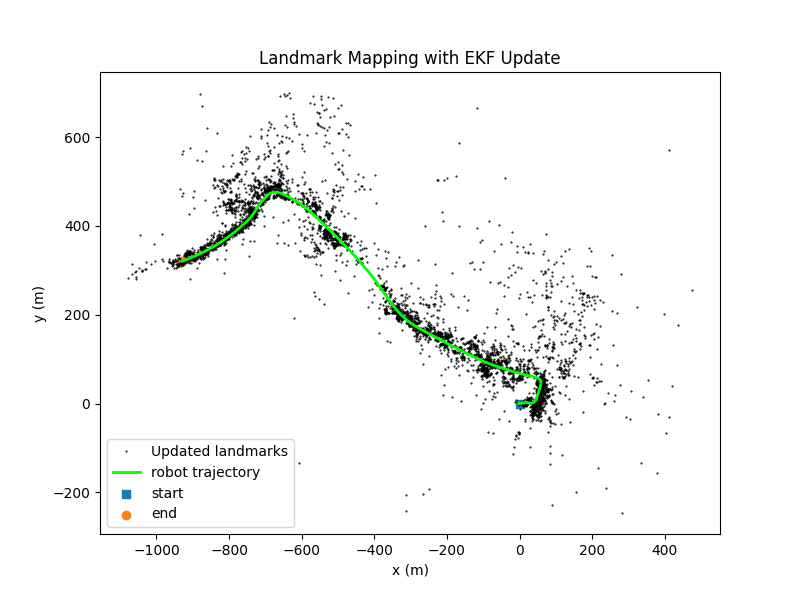
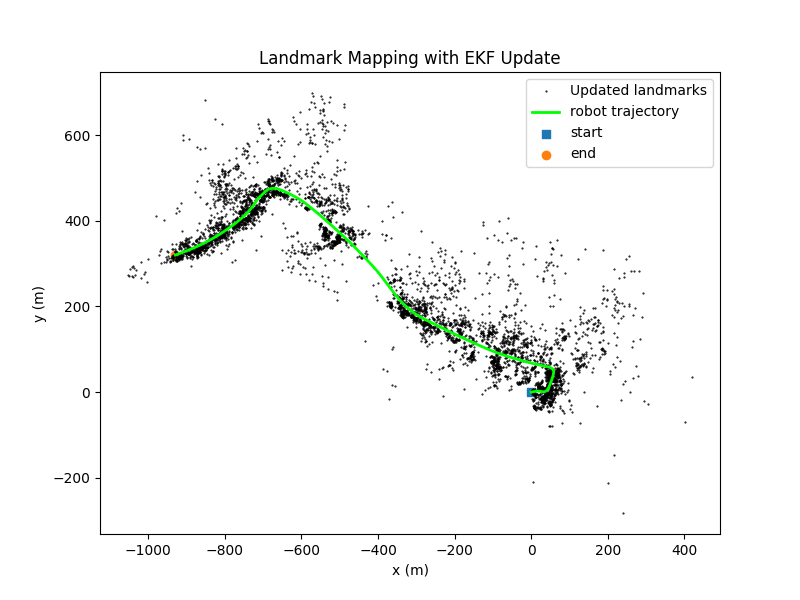
SLAM kind of work

diff --git a/code/EKF_utils.py b/code/EKF_utils.py
@@ -18,6 +18,7 @@ def IMU_localization(linear_velocity,angular_velocity,time):
     exp_map = expm(time_reshaped*zeta_hat) 
     for i in range(zeta_hat.shape[0]):
         T_k1 =  T_k @ exp_map[i]
+        # print("localization",np.max(abs(T_k1)))
         # update T_k
         T_k = T_k1
         T_history.append(T_k1)
@@ -137,6 +138,7 @@ def landmark_initialization(features,POSE,imu_T_cam,K_s,dataset,outlier_rejectio
         m_w = POSE[i] @ z_r
         observed[unobserved] = 1
         landmark[:, unobserved] = m_w[:3, :]/m_w[-1, :]
+        print("landmark",np.max(abs(landmark)))
         m_all.append(m_w[:3, :]/m_w[-1, :])
         # x_all.append(m_w[0,:])
         # y_all.append(m_w[1,:])
@@ -168,9 +170,9 @@ def EKF_predicition_covariance(zeta,time):
 
 def generate_T_imu2o(imu_T_cam):
     o_T_r = np.array([[0,-1,0,0],
-                [0,0,-1,0],
-                [1,0, 0,0],
-                [0,0, 0,1]])
+                      [0,0,-1,0],
+                      [1,0, 0,0],
+                      [0,0, 0,1]])
     o_T_i = o_T_r @ np.linalg.inv(imu_T_cam)
     return o_T_i
 
@@ -180,13 +182,12 @@ def compute_H(K_s,o_T_w,mean):
     M = N
     P = np.block([[np.eye(3), np.zeros((3, 1))]])
     H = np.zeros((4*N, 3*M))
-    # H_block = K_s @ projectionJacobian((o_T_w @ mean).T).T @ o_T_w @ P.T
     for i in range(N):
         H[4*i:4*i+4, 3*i:3*i+3] = K_s @ projectionJacobian((o_T_w @ mean[:,i]).reshape(1,-1)) @ o_T_w @ P.T
     return H
 
 def compute_kalman_gain(sigma, H):
-    measurement_noise = 1e-4 * np.eye(H.shape[0])
+    measurement_noise = 5 * np.eye(H.shape[0])
     # try pinv if singular
     K = sigma @ H.T @ np.linalg.pinv(H @ sigma @ H.T + measurement_noise)
     return K
@@ -212,7 +213,6 @@ def EKF_update(features,lm,POSE,o_T_i,K_S):
 		index_observed = np.where(observed == 1)
 		unobserved = np.intersect1d(index, index_unobserved)
 		obs = np.intersect1d(index, index_observed)
-		ind = np.union1d(obs, np.setdiff1d(index_observed,obs)[-100:])
 		# new observation
 		if len(obs) > 0:
 			cov_mask = np.concatenate([obs * 3, obs * 3 + 1, obs * 3 + 2])
@@ -234,8 +234,8 @@ def EKF_update(features,lm,POSE,o_T_i,K_S):
 			# update mean, mean : 3Mx1
 			mean = mean.T.reshape(-1,1) + K_gain @ inovation.T.reshape(-1,1)
 			# update landmarks, convert mean back (need to follow the order of the reshape originally) 
-			landmark_test[:,obs] = mean.reshape(-1, 3).T
-			# pdb.set_trace()
+			lm[:,obs] = mean.reshape(-1, 3).T
+			print("updated landmarks",np.max(abs(K_gain @ inovation.T.reshape(-1,1))))
 			# update covariance, K_gain @ H : 3M x 3M
 			cov = (I - K_gain @ H) @ cov
 			covariance[cov_mask_x, cov_mask_y] = cov
@@ -243,9 +243,9 @@ def EKF_update(features,lm,POSE,o_T_i,K_S):
 		# update observed landmarks indices
 		observed[unobserved] = 1
 		# pdb.set_trace()
-	return landmark_test
+	return lm
 
-def EKF_predict(velocity,angular_velocity,time,T_k):
+def EKF_predict(velocity,angular_velocity,time,T_k,cov_t):
     """
     EKF Prediction step, compute the mean and covariance of the predicted state
     @ Input:
@@ -256,10 +256,10 @@ def EKF_predict(velocity,angular_velocity,time,T_k):
     T_k1: 4 x 4
     cov_t1: 6 x 6
     """
-    cov_t = np.diag([1e-3, 1e-3, 1e-3, 1e-4, 1e-4, 1e-4])
     omega_hat = hat_map(angular_velocity.T)
     zeta_hat = generate_hat_map_matrices(omega_hat,velocity.T)[0]
     exp_map = expm(time*zeta_hat)
+    # try flipping the order
     T_k1 = T_k @ exp_map
     # compute covariance
     zeta = np.concatenate((velocity, angular_velocity), axis=0).T
@@ -268,21 +268,45 @@ def EKF_predict(velocity,angular_velocity,time,T_k):
     cov_t1 = expm(-time*zeta_ad) @ cov_t @ expm(-time*zeta_ad).T + np.eye(6) * W
     return T_k1, cov_t1
 
+def lm_init(features_t,unobserved,pose,imu_T_cam,K_s):
+    # initialize landmarks
+    z_t = features_t[:, unobserved]
+    # calculate the disparity between left to the right: uL - uR = 1/z * fx b
+    disparity = z_t[0, :] - z_t[2, :]
+    fu_b = - K_s[2, -1]
+    # calculate the depth estimation of the 3D points z = fxb/uL-uR
+    z = fu_b / disparity
+    zt_ = np.ones((4, z_t.shape[1]))
+    zt_[2, :] = z
+    # x = uL * z / fx | y = uR * z / fy
+    zt_[0, :] = (z_t[0, :] * z - K_s[0,2] * z) / K_s[0,0]
+    zt_[1, :] = (z_t[1, :] * z - K_s[1,2] * z) / K_s[1,1]
+    # Z in camera frame
+    z_r = imu_T_cam @ zt_
+    m_w = pose @ z_r
+    return m_w[:3, :]/m_w[-1, :]
+
 def Visual_SLAM(features, linear_velocity, angular_velocity, time, K_s, imu_T_cam):
     '''
     EKF Localization and Mapping.
     '''
     # set initial pose to be identity
-    T_k = np.eye(4)
+    pose = np.eye(4)
     o_T_i = generate_T_imu2o(imu_T_cam)
     observed = np.zeros(features.shape[1])
     landmark = np.ones((3, features.shape[1])) * -1
     # covariance 3M x 3M
     cov_sigma = 1e-3
-    covariance = (np.eye(features.shape[1] * 3) * cov_sigma)
-    for i in range(features.shape[2]-1):
+    pose_cov = np.diag([1e-3, 1e-3, 1e-3, 1e-4, 1e-4, 1e-4])
+    covariance_lm = (np.eye(features.shape[1] * 3) * cov_sigma)
+    updated_pose_history = []
+    for i in tqdm(range(features.shape[2]-1)):
         # EKF Prediction
-        pose, pose_cov = EKF_predict(linear_velocity[:,i].reshape(-1,1),angular_velocity[:,i].reshape(-1,1),time[i],T_k)
+        # print("updated pose",np.max(abs(pose)))
+        pose, pose_cov = EKF_predict(linear_velocity[:,i].reshape(-1,1),angular_velocity[:,i].reshape(-1,1),time[i],pose, pose_cov)
+        # print("predicted pose",np.max(abs(pose)))
+        # pdb.set_trace()
+        
         features_t = features[:,:,i]
         # index of useful features
         index = np.where(np.min(features_t, axis=0) != -1)
@@ -292,48 +316,58 @@ def Visual_SLAM(features, linear_velocity, angular_velocity, time, K_s, imu_T_ca
         unobserved = np.intersect1d(index, index_unobserved)
         obs = np.intersect1d(index, index_observed)
         ind = np.union1d(obs, np.setdiff1d(index_observed,obs)[-100:])
-        # initialize landmarks
-        z_t = features_t[:, unobserved]
-        # calculate the disparity between left to the right: uL - uR = 1/z * fx b
-        disparity = z_t[0, :] - z_t[2, :]
-        fu_b = - K_s[2, -1]
-        # calculate the depth estimation of the 3D points z = fxb/uL-uR
-        z = fu_b / disparity
-        zt_ = np.ones((4, z_t.shape[1]))
-        zt_[2, :] = z
-        # x = uL * z / fx | y = uR * z / fy
-        zt_[0, :] = (z_t[0, :] * z - K_s[0,2] * z) / K_s[0,0]
-        zt_[1, :] = (z_t[1, :] * z - K_s[1,2] * z) / K_s[1,1]
-        # Z in camera frame
-        z_r = imu_T_cam @ zt_
-        m_w = pose @ z_r
-        landmark[:, unobserved] = m_w[:3, :]/m_w[-1, :]
-        observed[unobserved] = 1
+        # landmark initial guess
+        try:
+            landmark[:, unobserved] = lm_init(features_t,unobserved,pose,imu_T_cam,K_s)
+        except ValueError:
+            print("ValueError in landmark initialization")
+            pdb.set_trace()
         if len(obs) > 0:
             N, M = len(obs), len(ind)
-            mean = landmark[:,obs]
+            mean = landmark[:,ind]
             obs_z = features[:,:,i+1][:,obs]
-            cov_mask = np.concatenate([obs * 3, obs * 3 + 1, obs * 3 + 2])
+            cov_mask = np.concatenate([ind * 3, ind * 3 + 1, ind * 3 + 2])
             cov_mask_x, cov_mask_y = np.meshgrid(cov_mask, cov_mask, sparse=False, indexing='xy')
-            cov = covariance[cov_mask_x, cov_mask_y]
-            z_o = o_T_i @ np.linalg.inv(pose) @ homogenous(landmark[:,obs])
+            cov_lm = covariance_lm[cov_mask_x, cov_mask_y]
+            z_o = o_T_i @ inversePose(pose) @ homogenous(landmark[:,obs])
             z_est = K_s @ (z_o/z_o[2,:])
             # z - z_est
             inovation = obs_z - z_est
-            # T from world to optical frame
-            o_T_w = o_T_i @ np.linalg.inv(pose) 
-            # H: 4 N x (3 M + 6)
+            # T from world to optical frame inversePose
+            o_T_w = o_T_i @ inversePose(pose) 
+            # o_T_w = o_T_i @ np.linalg.inv(pose) 
+            # H: 4 N x (3 M + 6), Each H is 4 x 3
             H = np.zeros((4 * N, 3 * M + 6))
             P = np.block([[np.eye(3), np.zeros((3, 1))]])
-            s_ = np.ones((1, 4))
-            o_dot(s_)
-            pdb.set_trace()
-            for i in range(N):
-                H[4*i:4*i+4, 3*i:3*i+3] = K_s @ projectionJacobian((o_T_w @ mean[:,i]).reshape(1,-1)) @ o_T_w @ P.T
-            
+            mean_h = homogenous(landmark[:,obs])
+            for j in range(N):
+                k = np.where(ind == obs[j])[0][0]
+                H[4*j:4*j+4, 3*k:3*k+3] = K_s @ projectionJacobian((o_T_w @ mean_h[:,j]).reshape(1,-1)) @ o_T_w @ P.T
+                H[4*j:4*j+4, -6:] = - K_s @ projectionJacobian((o_T_w @ mean_h[:,j]).reshape(1,-1)) @ o_T_i @ o_dot((inversePose(pose) @ mean_h[:,j]).reshape(1,-1))
+            cov_lm_pose = np.zeros((3 * M + 6, 3 * M + 6)) 
+            cov_lm_pose[-6:, -6:] = pose_cov
+            cov_lm_pose[:-6, :-6] = cov_lm
+            try:
+                K_GAIN = cov_lm_pose @ H.T @ np.linalg.pinv(H @ cov_lm_pose @ H.T + 5 * np.eye(H.shape[0]))
+            except np.linalg.LinAlgError: 
+                print("LinAlgError")
+                pdb.set_trace()
+            # update pose
+            pose = pose @ expm(axangle2twist((K_GAIN[-6:, :] @ inovation.T.reshape(-1,1)).T))[0]
+            # pdb.set_trace()
+            updated_pose_history.append(pose)
+            # update pose covariance
+            pose_cov = (np.eye(6) - K_GAIN[-6:, :] @ H[:, -6:]) @ pose_cov
+            # update landmarks, mean = 3M x 1
+            mean = mean.T.reshape(-1,1) + K_GAIN[:-6, :] @ inovation.T.reshape(-1,1)
+            landmark[:,ind] = mean.reshape(-1, 3).T
+            # update landmarks covariance
+            cov_lm = (np.eye(3 * M) - K_GAIN[:-6,:] @ H[:, :-6]) @ cov_lm
+            covariance_lm[cov_mask_x, cov_mask_y] = cov_lm
+        observed[unobserved] = 1
 
+    return updated_pose_history, landmark
     # N, M = obs.shape[1], len(index)
     
-    pass    
 if __name__ == "__main__":
     print("This is a library of utility functions for EKF.")

diff --git a/code/main.py b/code/main.py
@@ -31,13 +31,16 @@ if __name__ == '__main__':
 		pred_cov = EKF_predicition_covariance(zeta, time)
 		lm, m_bar, observed_features = landmark_initialization(features,POSE,imu_T_cam,K_S,dataset,outlier_rejection=False)
 		x, y = transform_pose_matrix_to_xy(np.array(POSE))
-		visualize_landmark_mapping(lm, x, y,dataset,save=False,outlier_rejection=False)
+		# visualize_landmark_mapping(lm, x, y,dataset,save=False,outlier_rejection=False)
 		# EKF update
 		landmark_test = EKF_update(features,lm,POSE,o_T_i,K_S)
 		# np.save(f"results/{dataset}_landmarks_m_noise{cov_sigma}.npy",lm)
-		visualize_landmark_mapping(landmark_test, x, y,dataset,save=True,outlier_rejection=True)
+		visualize_landmark_mapping(landmark_test, x, y,dataset,save=False,outlier_rejection=True)
 	else:
-		Visual_SLAM(features, linear_velocity, linear_velocity, time, K_S,imu_T_cam)
+		slam_poses, landmarks = Visual_SLAM(features, linear_velocity, linear_velocity, time, K_S,imu_T_cam)
+		x, y = transform_pose_matrix_to_xy(np.array(slam_poses))
+		visualize_landmark_mapping(landmarks, x, y,dataset,save=False,outlier_rejection=False)
+
 
 
 
